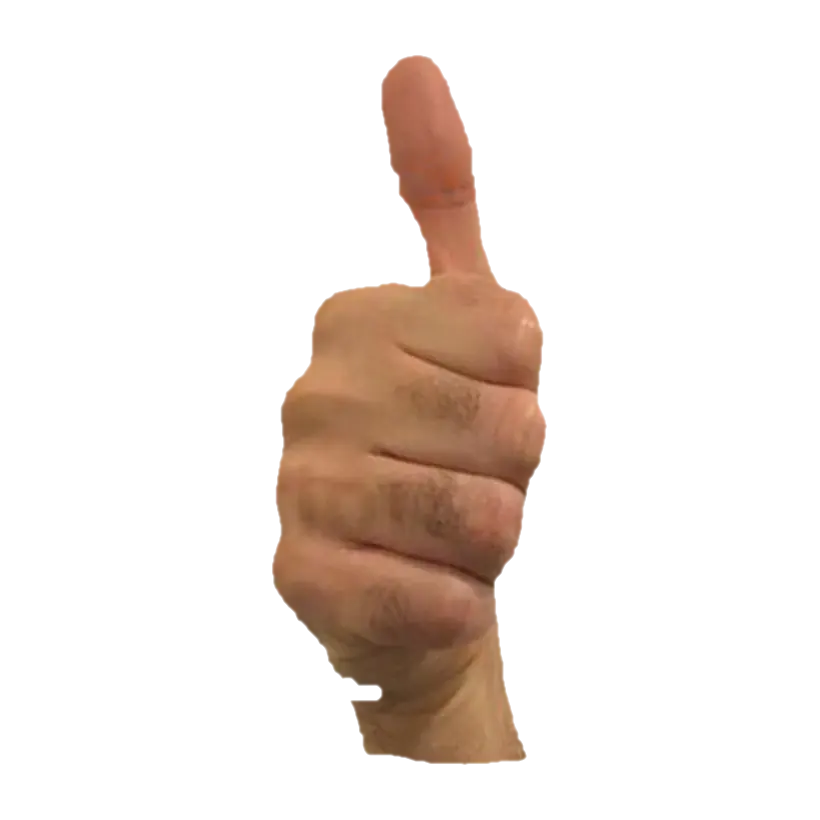
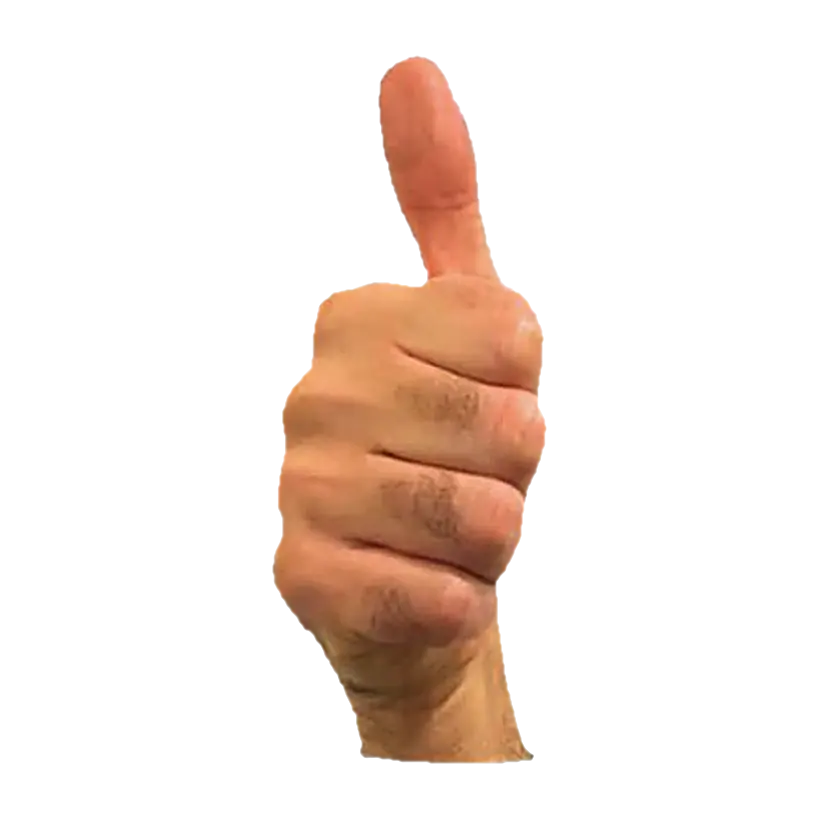
KSL: alif madda uses the clean alif photograph (same fist), without the notch at the wrist
Claude-Session: https://claude.ai/code/session_01Ktt7MZfdPLXrLfwMJzGNAd

Changed region(s): [[0.3354, 0.061, 0.6707, 0.9451]]

diff --git a/index.html b/index.html
@@ -13987,7 +13987,7 @@ const KSL_EXTRA = [
     mv: "The same fist as <b>ا</b>, thumb up &mdash; moved from side to side." },
   { l: "إ", n: "ألف بهمزة تحتها", t: "ʾalif + hamza below", img: "ksl/alifhamzabelow.webp?v=2", mvk: "↔",
     mv: "The fist of <b>ا</b> turned over, thumb down &mdash; moved from side to side." },
-  { l: "آ", n: "ألف ممدودة", t: "ʾalif madda", img: "ksl/alifmadda.webp?v=2", mvk: "↺",
+  { l: "آ", n: "ألف ممدودة", t: "ʾalif madda", img: "ksl/alifmadda.webp?v=3", mvk: "↺",
     mv: "The same fist as <b>ا</b>, thumb up &mdash; swept in an arc." },
   { l: "ؤ", n: "واو بهمزة", t: "wāw + hamza", img: "ksl/wawhamza.webp?v=2", mvk: "↺",
     mv: "The same pinch as <b>و</b> &mdash; it turns as it travels." },
@@ -22512,7 +22512,7 @@ function wireProfileButtons() {
 /* Printed small under the notice. When a screen looks wrong, the first
    question is always whether the browser is showing an old copy, and
    this answers it without anybody having to guess. */
-const BUILD = "1105-1100";
+const BUILD = "1105-1130";
 function paintBuild() {
   const n = document.getElementById("build-stamp");
   /* kept for the refresh check only; visitors do not need to see it */
